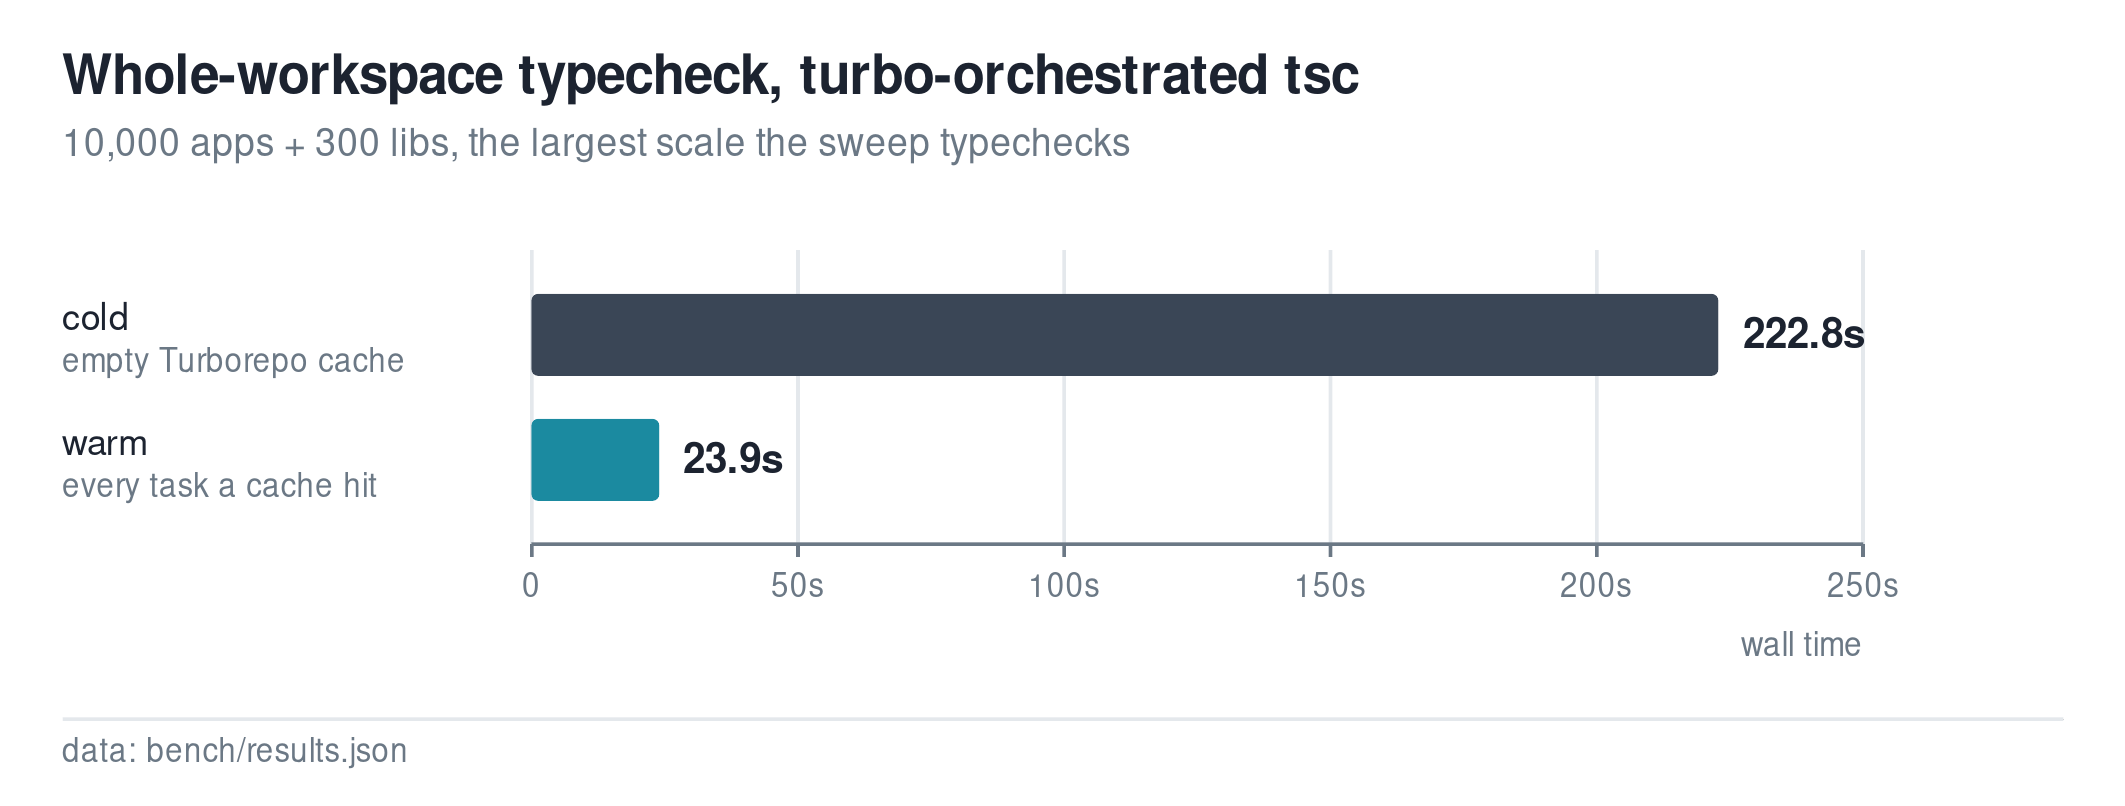
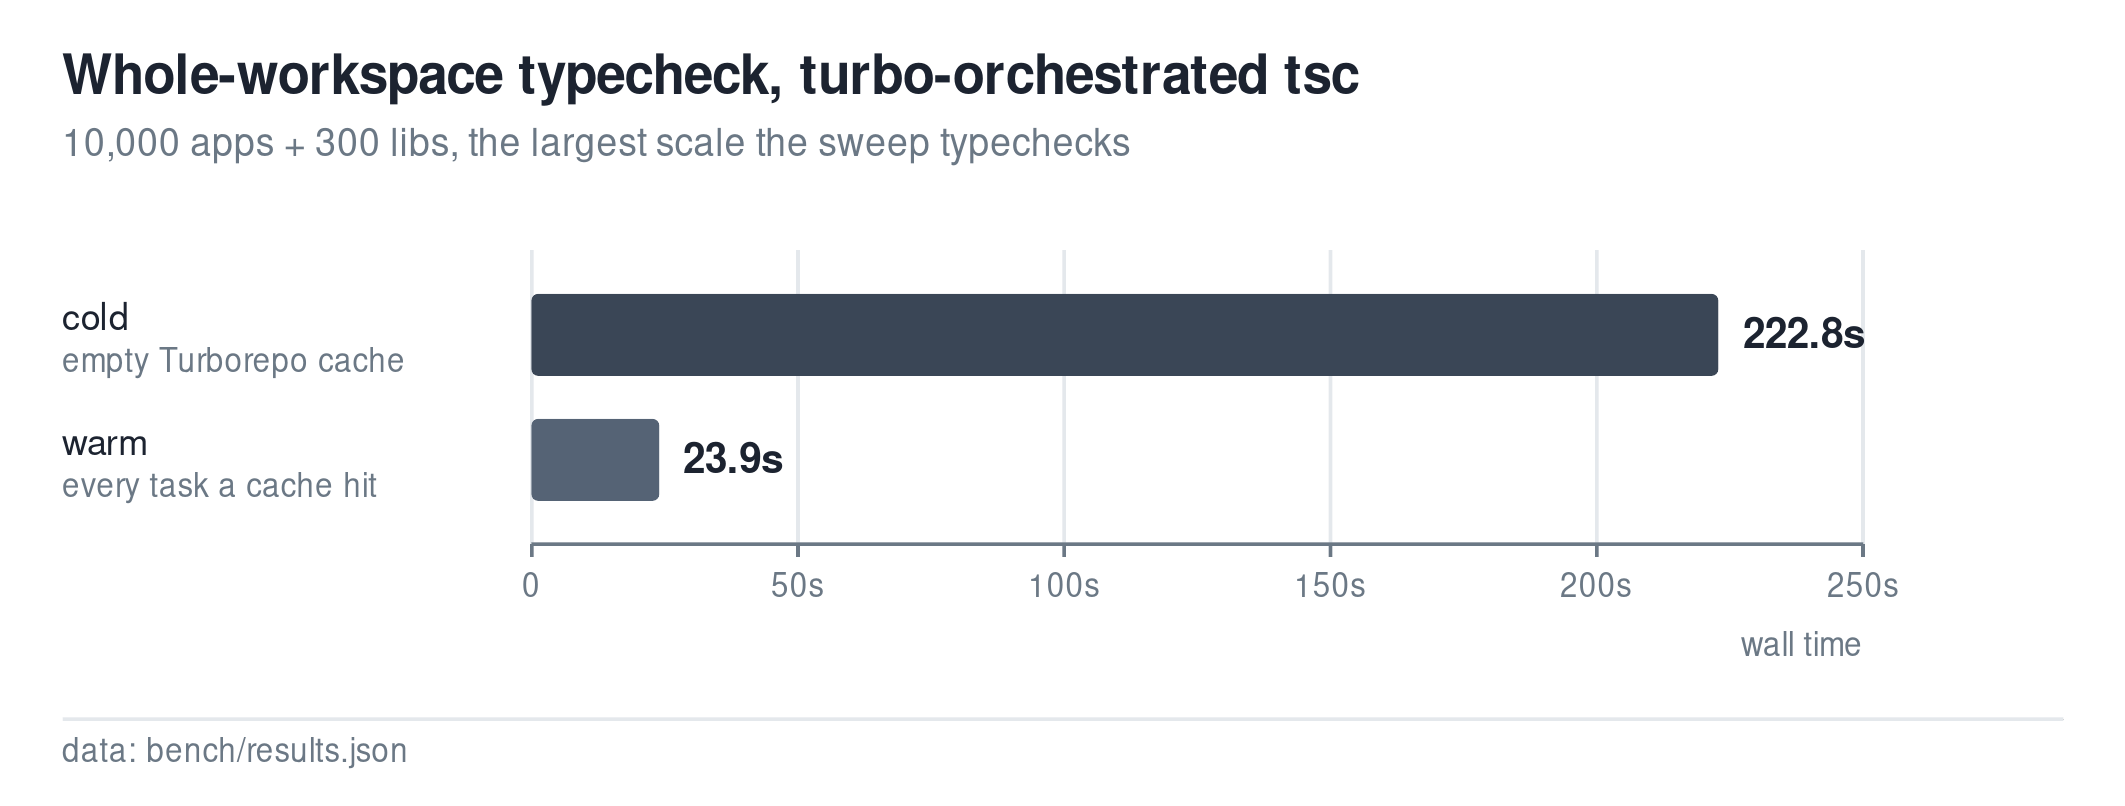
Chart audit: composite group opacity into text ink; typecheck-cold-vs-warm draws warm in the whole-repo family
- _svg-audit.mjs: text elements now carry the product of their ancestors'
  <g opacity> (and their own opacity), as marks already do, and the ink is
  composited over its background before the 4.5:1 check; before, text inside a
  translucent group was re-parsed without the group stack and read as opaque.
- chartstyle-selftest.mjs: new case where dark text in <g opacity="0.2">
  (also nested groups and own opacity) on white is flagged and the same text at
  full opacity passes; the 'group closes' case now uses an exempt hairline in
  the group instead of translucent text.
- chart.mjs: the warm bar (every task a cache hit) was drawn in SERIES.scoped
  (the closure cyan) although a warm run is the whole workspace; it now uses
  SERIES.neutral (SLATE) beside the cold bar's REPO charcoal. Re-rendered
  typecheck-cold-vs-warm.svg/.png (one fill changed); other charts unchanged.
- AGENTS.md: palette sentence names SLATE's use for the warm bar.

Changed region(s): [[0.2485, 0.4963, 0.3106, 0.6203]]

diff --git a/AGENTS.md b/AGENTS.md
@@ -1196,7 +1196,8 @@ box; FLEET.md and TYPECHECKERS.md state both where they describe the machine.
   each as a `mark` for lines, bars and dots and a `tint` for areas behind text. They sit
   off the heat ramp's hues, so a whole-repo series never reads as a ×100 cell, and off
   every tool hue; they separate by lightness as well as hue. A neutral single series is
-  `SLATE`.
+  `SLATE`, which also draws the warm bar of `typecheck-cold-vs-warm` beside the `REPO` cold
+  bar (a warm run is still the whole workspace, so it never takes the closure cyan).
 - **Stable tool colors.** A tool keeps ONE hue in every chart (the short rule under its
   column header, a series, a legend swatch) — `TOOL_COLORS` in `_chartstyle.mjs`: bun `#0e8f7e` · pnpm `#cb711f` ·
   yarn `#6f56c4` · npm `#c0453b` · tsgo `#1a73e8` · tsc (and tsserver, its daemon)
